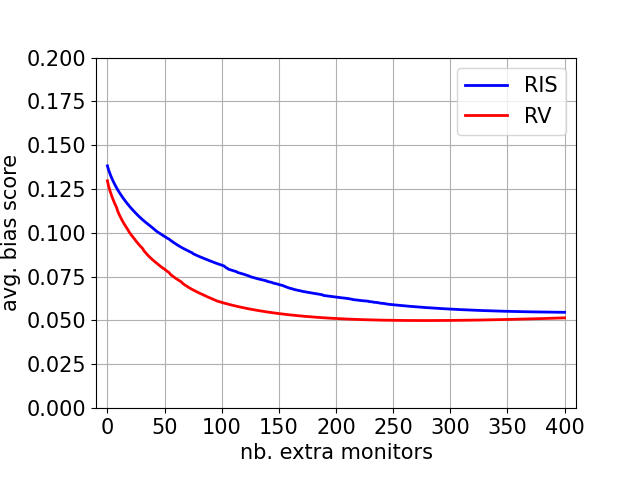
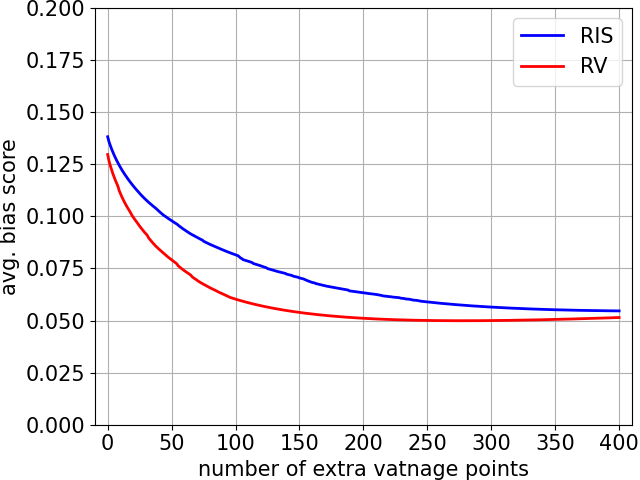
latest (forgotten) changes for paper

diff --git a/use_cases/ripe_ris_subsampling/script_plot_bias_naive_vs_greedy.py b/use_cases/ripe_ris_subsampling/script_plot_bias_naive_vs_greedy.py
@@ -65,7 +65,7 @@ def apply_plot_formatting(legend_order, ncols, savename_suffix):
 	# FONTSIZE = 15
 	plt.axis([9,4000,0,0.40])
 	plt.xscale('log')
-	plt.xlabel('#monitors', fontsize=FONTSIZE)
+	plt.xlabel('number of vantage points', fontsize=FONTSIZE)
 	plt.ylabel('Bias score', fontsize=FONTSIZE)
 	plt.xticks(fontsize=FONTSIZE)
 	plt.yticks(fontsize=FONTSIZE)
@@ -73,7 +73,8 @@ def apply_plot_formatting(legend_order, ncols, savename_suffix):
 	handles, labels = plt.gca().get_legend_handles_labels()
 	plt.legend([handles[idx] for idx in legend_order],[labels[idx] for idx in legend_order], fontsize=FONTSIZE, ncol=ncols)
 	plt.grid(True)
-	plt.subplots_adjust(left=0.15, bottom=0.15)
+	# plt.subplots_adjust(left=0.15, bottom=0.15)
+	plt.tight_layout(pad = 0.0)
 	# plt.yticks([0.05*i for i in range(11)])
 	# plt.xticks([10*i for i in range(10)]+[100+i*100 for i in range])
 	# plt.axis([-10,len(naive_bias)+10,0,0.5])

diff --git a/use_cases/ripe_ris_extension/script_plot_bias_extra_monitors.py b/use_cases/ripe_ris_extension/script_plot_bias_extra_monitors.py
@@ -38,9 +38,10 @@ for rc in ['RIS', 'RV']:
 # plt.axis([min(bias_df_diff_rel), max(bias_df_diff_rel), 0, 1])
 plt.legend(fontsize=FONTSIZE)
 plt.xlabel('relative difference (%) in bias score', fontsize=FONTSIZE)
-plt.ylabel('CDF', fontsize=FONTSIZE)
+plt.ylabel('ECDF', fontsize=FONTSIZE)
 plt.xticks(fontsize=FONTSIZE)
 plt.yticks(fontsize=FONTSIZE)
+plt.tight_layout(pad = 0.0)
 plt.grid(True)
 plt.savefig(FIG_CDF_SAVENAME)
 plt.close()
@@ -68,11 +69,11 @@ for rc in ['RIS', 'RV']:
 
 plt.legend(fontsize=FONTSIZE)
 plt.axis([-10, MAX_EXTRA+10, 0, 0.2])
-plt.xlabel('nb. extra monitors', fontsize=FONTSIZE)
+plt.xlabel('number of extra vatnage points', fontsize=FONTSIZE)
 plt.ylabel('avg. bias score', fontsize=FONTSIZE)
 plt.xticks(fontsize=FONTSIZE)
 plt.yticks(fontsize=FONTSIZE)
 plt.grid(True)
-plt.subplots_adjust(left=0.15, bottom=0.15)
+plt.tight_layout(pad = 0.0)
 plt.savefig(FIG_BIAS_SAVENAME)
 plt.close()

diff --git a/use_cases/paper/script_plot_sampling_monitors_bias__per_rc.py b/use_cases/paper/script_plot_sampling_monitors_bias__per_rc.py
@@ -102,11 +102,12 @@ def plot_bias_peers_per_rc(dict_rc_asn, multihop_rrcs, project, plot_per_project
             label='{}: multihop RCs'.format(project), c='g', marker=MARKERS[project], s=MARKERSIZE)
     plt.grid(True)
     plt.legend(fontsize=FONTSIZE)
-    plt.xlabel('#monitors', fontsize=FONTSIZE)
+    plt.xlabel('number of vantage points', fontsize=FONTSIZE)
     plt.ylabel('avg. bias score', fontsize=FONTSIZE)
     plt.xticks(fontsize=FONTSIZE)
     plt.yticks(fontsize=FONTSIZE)
-    plt.subplots_adjust(left=0.15, bottom=0.15)
+    # plt.subplots_adjust(left=0.15, bottom=0.15)
+    plt.tight_layout(pad = 0.0)
 
     if plot_per_project:
         # for i,t in enumerate(list_of_rrcs):

diff --git a/use_cases/paper/script_plot_sampling_monitors_bias.py b/use_cases/paper/script_plot_sampling_monitors_bias.py
@@ -84,10 +84,11 @@ def custom_plot_save_and_close(fname):
     plt.axis([9,1100,0,0.40])
     plt.xticks(fontsize=FONTSIZE)
     plt.yticks(fontsize=FONTSIZE)
-    plt.xlabel('#monitors', fontsize=FONTSIZE)
+    plt.xlabel('number of vantage points', fontsize=FONTSIZE)
     plt.ylabel('avg. bias score', fontsize=FONTSIZE)
     plt.grid(True)
-    plt.subplots_adjust(left=0.15, bottom=0.15)
+    # plt.subplots_adjust(left=0.15, bottom=0.15)
+    plt.tight_layout(pad = 0.0)
     plt.savefig(fname)
     plt.close()
 

diff --git a/use_cases/paper/script_plot_sampling_monitors_bias__real_Atlas.py b/use_cases/paper/script_plot_sampling_monitors_bias__real_Atlas.py
@@ -94,10 +94,11 @@ def custom_plot_save_and_close(fname):
     plt.axis([5,105,0,0.40])
     plt.xticks(fontsize=FONTSIZE)
     plt.yticks(fontsize=FONTSIZE)
-    plt.xlabel('#monitors', fontsize=FONTSIZE)
+    plt.xlabel('number of vantage points', fontsize=FONTSIZE)
     plt.ylabel('avg. bias score', fontsize=FONTSIZE)
     plt.grid(True)
-    plt.subplots_adjust(left=0.15, bottom=0.15)
+    # plt.subplots_adjust(left=0.15, bottom=0.15)
+    plt.tight_layout(pad = 0.0)
     plt.savefig(fname)
     plt.close()
 

diff --git a/use_cases/ripe_ris_subsampling/script_plot_cdn_data.py b/use_cases/ripe_ris_subsampling/script_plot_cdn_data.py
@@ -81,6 +81,7 @@ def apply_plotting_format(filename):
     plt.yticks(fontsize=FONTSIZE)
     plt.legend(fontsize=FONTSIZE, ncol=1, loc='upper right')
     plt.grid(True)
+    plt.tight_layout(pad = 0.0)
     plt.savefig(filename)
     plt.close()
 
